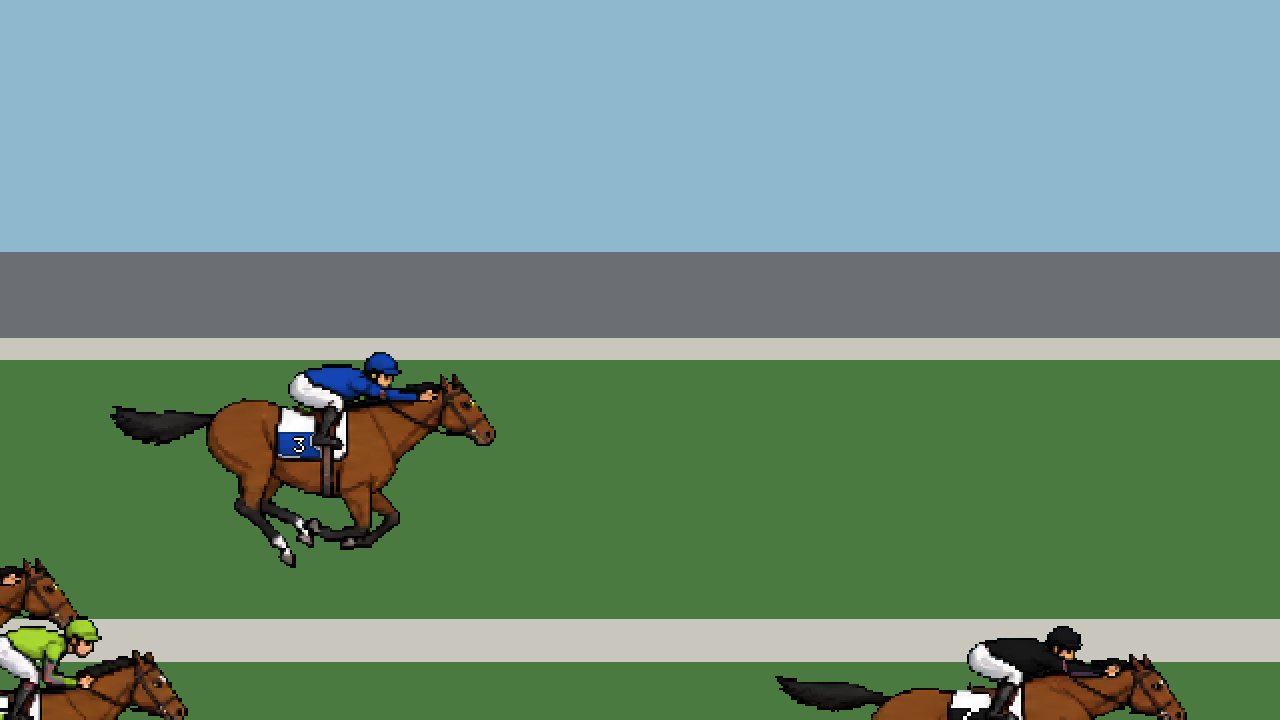
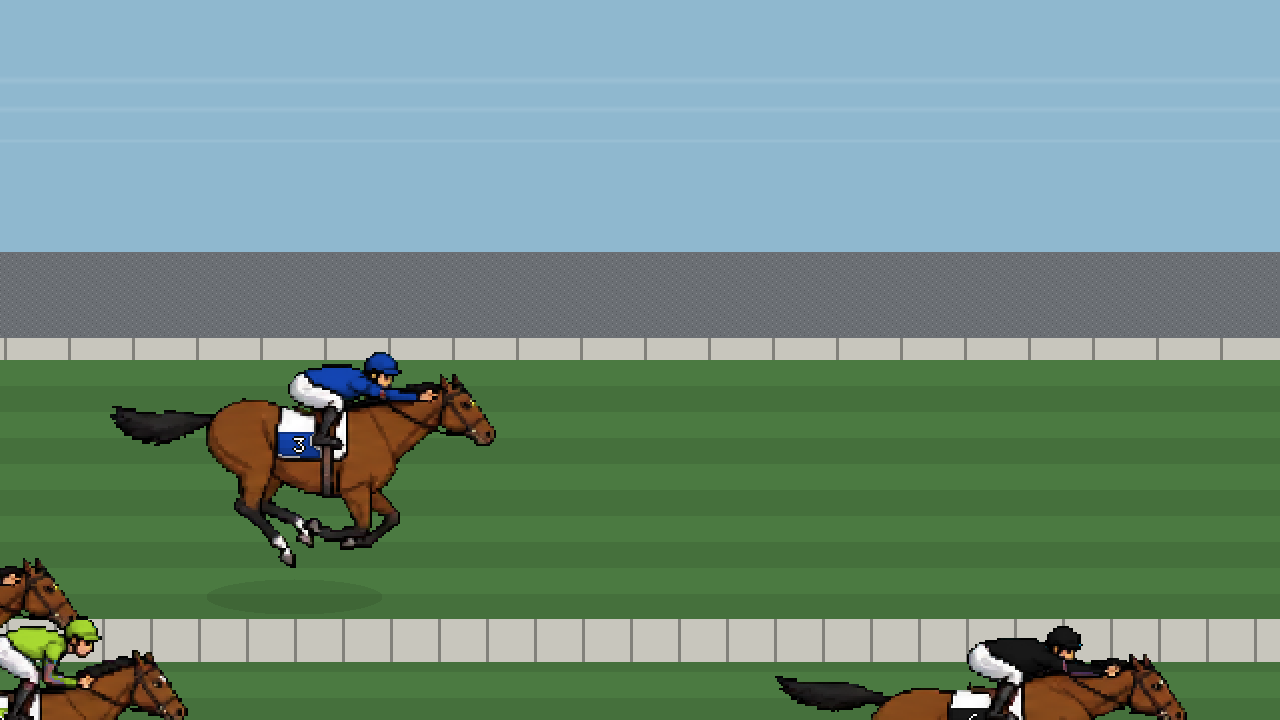
P4: 番号の大きさを全コマ共通に／影を追加（接地線は実測）／空の斜め縞を除去／★確認用ツールがゲームと同じ絵を描くように

Changed region(s): [[0.75, 0.9778, 0.7812, 1.0]]

diff --git a/packages/render/src/scene.ts b/packages/render/src/scene.ts
@@ -453,10 +453,34 @@ export function sceneAt(input: SceneInput, sec: number): Frame {
      *   → **巡回**させます。自馬が必ず先頭の段に来て、他は下に回ります。
      */
     const y = vp.trackTop + screenLane(h.gate) * vp.laneHeight * z;
-    const sprite: SpriteRef = {
-      sheet: 'horse-gallop',
-      frame: gallopFrame(h.gate, input.gallopFrames, input.animSec ?? sec, 1 / (input.secondsPerMeter ?? 1 / 16)),
-    };
+    /**
+     * ★**影を先に描きます**（馬より下に来る）。
+     *   ⚠ 影が無いと馬が芝に貼った絵に見えます。
+     *   ★接地の強さは**ギャロップのコマ**から決めます。宙に浮く局面では薄く小さくなり、
+     *     それが「跳んでいる」ことの表現になります。**別の乱数は使いません。**
+     */
+    const gf = gallopFrame(h.gate, input.gallopFrames, input.animSec ?? sec, 1 / (input.secondsPerMeter ?? 1 / 16));
+    /**
+     * ★**接地線と、宙に浮くコマは、シートの実測から来ます。**
+     *   `tools/measure-gallop.mjs`（140px のコマ内）:
+     *     地面線 y=133（＝0.95）／コマごとの浮き 26,0,5,22,6,15 px
+     *   → **0コマ目と3コマ目が伸展・収縮の宙**です。
+     *   ⚠ ここを目分量で置いたら、影が**足元から離れて浮きました**（実際に浮きました）。
+     */
+    const GROUND_RATIO = 0.95;
+    const airborne = gf === 0 || gf === 3;
+    commands.push({
+      kind: 'shadow',
+      at: {
+        x: x + Math.round(SPRITE.width * 0.45) * z,
+        y: y + Math.round(SPRITE.height * GROUND_RATIO) * z,
+      },
+      width: Math.round(SPRITE.width * (airborne ? 0.30 : 0.40)) * z,
+      strength: airborne ? 0.22 : 0.42,
+      scale: z,
+    });
+
+    const sprite: SpriteRef = { sheet: 'horse-gallop', frame: gf };
     commands.push({
       kind: 'sprite', sprite, at: { x, y }, silk: input.silkOf(h.gate), scale: z,
       // ★脚質が見えないと、位置は嘘をつきます（V-16 ①）

diff --git a/apps/web/src/lib/canvas-renderer.ts b/apps/web/src/lib/canvas-renderer.ts
@@ -61,10 +61,23 @@ function tileFor(
    */
   t.globalAlpha = 0.18;
   if (role === 'sky') {
+    /**
+     * ★**横に流れる薄い雲**。
+     *   ⚠ 以前は `(x*7 + y*13) % 97` で置いていました。これは**斜めの縞**になり、
+     *      空に格子が走って見えました（実際に見えました）。
+     *   ★アートバイブル §3「水平の帯で構成する」。**縦・斜めの要素を入れません。**
+     */
     t.fillStyle = '#ffffff';
-    for (let y = Math.floor(c.height * 0.35); y < Math.floor(c.height * 0.46); y += 1) {
-      for (let x = 0; x < c.width; x += 1) if (((x * 7 + y * 13) % 97) < 40) t.fillRect(x, y, 1, 1);
+    const bands: readonly (readonly [number, number])[] = [[0.30, 0.34], [0.42, 0.45], [0.55, 0.57]];
+    for (const [a, b] of bands) {
+      const y0 = Math.floor(c.height * a), y1 = Math.floor(c.height * b);
+      for (let y = y0; y < y1; y += 1) {
+        const fade = 1 - Math.abs((y - (y0 + y1) / 2) / Math.max(1, (y1 - y0) / 2));
+        t.globalAlpha = 0.10 * fade;
+        t.fillRect(0, y, c.width, 1);
+      }
     }
+    t.globalAlpha = 0.18;
   } else if (role === 'stand') {
     for (let y = 2; y < c.height - 2; y += 3) {
       for (let x = 1; x < c.width; x += 4) {
@@ -159,6 +172,18 @@ export function drawFrame(
           ctx.fillStyle = '#efe9dc';
           ctx.fillText(label, tx, ty);
         }
+        break;
+      }
+      case 'shadow': {
+        // ★楕円の影。接地点に置き、宙に浮く局面では薄く小さくなります
+        ctx.save();
+        // ★薄く平たく。濃い楕円は「置き物」に見えます
+        ctx.globalAlpha = c.strength * 0.4;
+        ctx.fillStyle = '#243a1e';
+        ctx.beginPath();
+        ctx.ellipse(c.at.x, c.at.y, c.width / 2, Math.max(2, c.width / 10), 0, 0, Math.PI * 2);
+        ctx.fill();
+        ctx.restore();
         break;
       }
       case 'effort': {

diff --git a/packages/render/test/camera.test.ts b/packages/render/test/camera.test.ts
@@ -488,3 +488,37 @@ describe('★カメラが馬群を写す（1頭に固定しない）', () => {
     expect(rails).toHaveLength(1);
   });
 });
+
+/**
+ * ★影（馬が芝に貼った絵に見えないこと）
+ */
+describe('★影', () => {
+  it('★全馬に影が出て、馬より先に描かれる', () => {
+    const cmds = sceneAt(input(1), 30).commands;
+    const shadows = cmds.filter((c) => c.kind === 'shadow');
+    expect(shadows.length).toBe(18);
+    // ★各馬について、影がその馬より前にある
+    const firstShadow = cmds.findIndex((c) => c.kind === 'shadow');
+    const firstSprite = cmds.findIndex((c) => c.kind === 'sprite');
+    expect(firstShadow).toBeLessThan(firstSprite);
+  });
+
+  it('★宙に浮く局面では影が薄く小さい（跳んでいることの表現）', () => {
+    const seen = new Set<number>();
+    for (let t = 0; t < 1; t += 1 / 60) {
+      const sh = sceneAt({ ...input(1), animSec: t }, 30).commands
+        .find((c) => c.kind === 'shadow') as { strength: number };
+      seen.add(sh.strength);
+    }
+    // ★2種類（接地・宙）が出る
+    expect(seen.size).toBe(2);
+    expect(Math.min(...seen)).toBeLessThan(Math.max(...seen));
+  });
+
+  it('★影は馬と同じ倍率（寄っても足元から離れない）', () => {
+    for (const z of [1, 2] as Zoom[]) {
+      const sh = sceneAt(input(z), 30).commands.find((c) => c.kind === 'shadow') as { scale: number };
+      expect(sh.scale).toBe(z);
+    }
+  });
+});

diff --git a/packages/render/src/commands.ts b/packages/render/src/commands.ts
@@ -242,6 +242,22 @@ export type DrawCommand =
    *     これがあると「どこを走っているか」が分かり、**速さが体感できます**
    *     （背景の縞だけでは、どれだけ進んだか読めません）。
    */
+  /**
+   * ★**影**（馬の足元）。
+   *
+   *   ⚠ 影が無いと、馬が**芝の上に貼った絵**に見えます。
+   *      奥行きの手掛かりが「速度差」だけになるためです（アートバイブル §3）。
+   *   ★**接地点に置く**ので、宙に浮く局面では小さく薄くなります
+   *     — それが「跳んでいる」ことの表現になります。
+   */
+  | {
+    readonly kind: 'shadow';
+    readonly at: Point;
+    readonly width: number;
+    /** 0〜1。★宙に浮いているほど薄く小さい */
+    readonly strength: number;
+    readonly scale: Zoom;
+  }
   | {
     readonly kind: 'pole';
     readonly at: Point;
